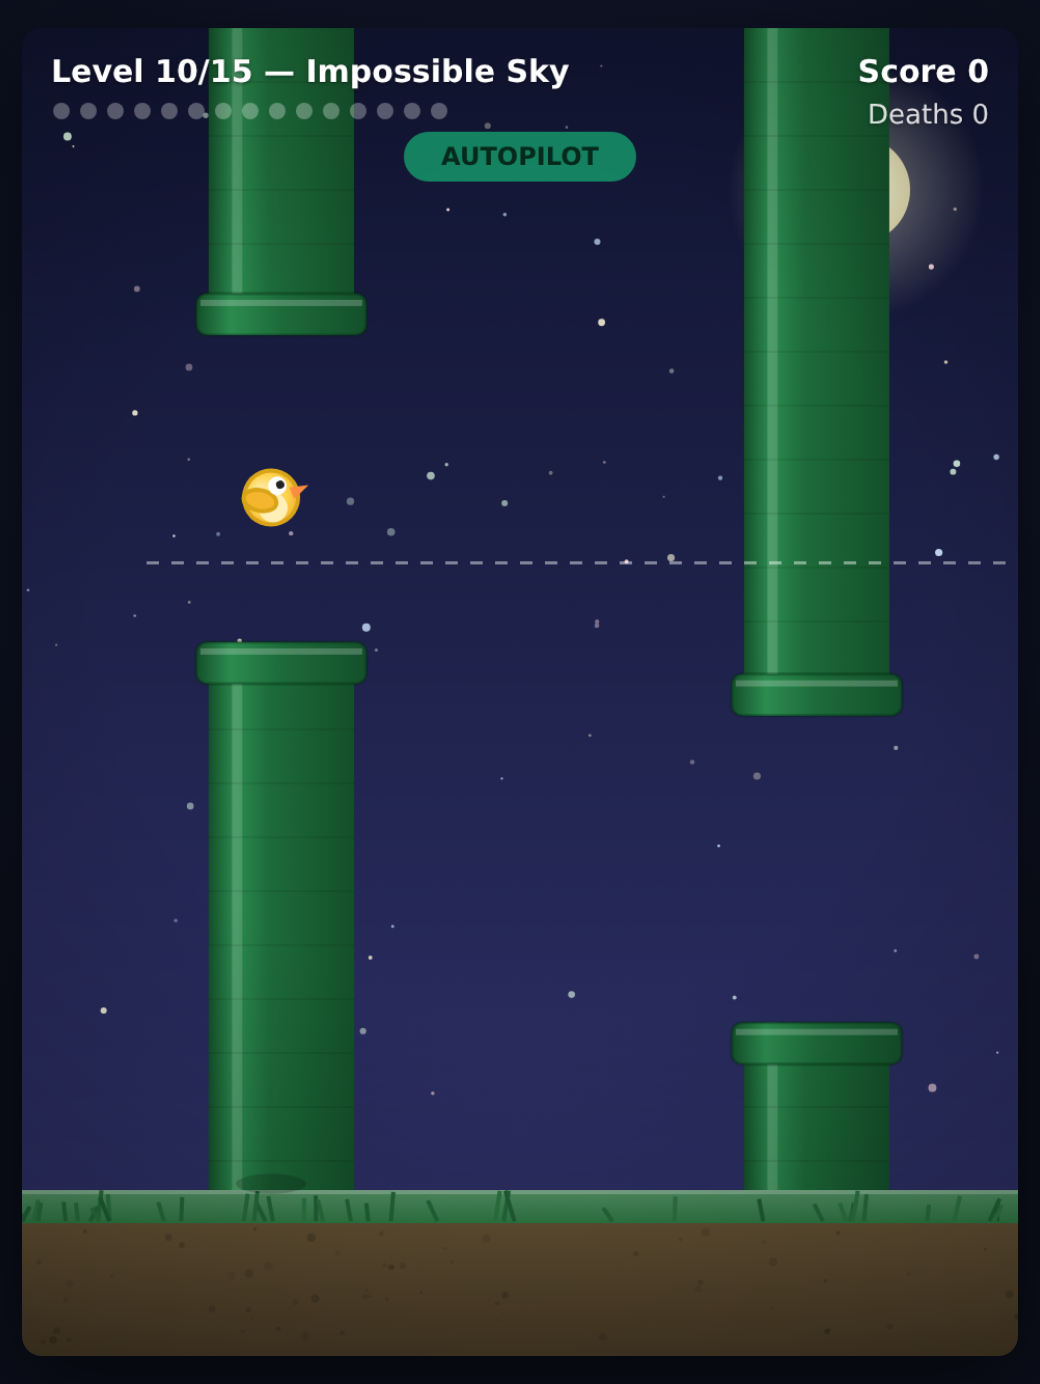
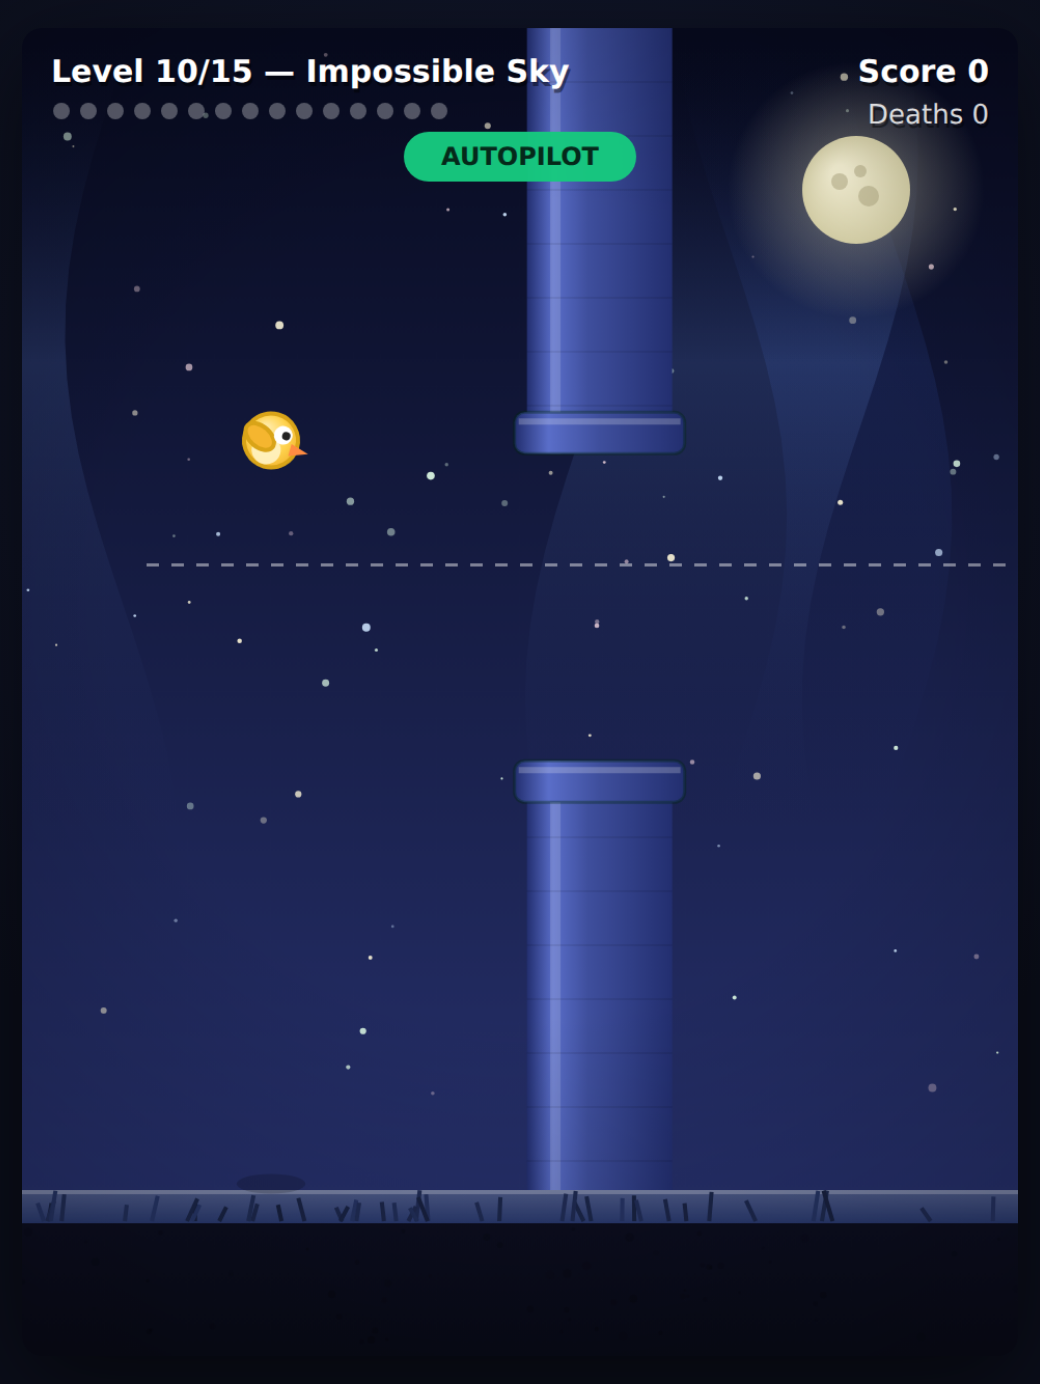
Give every level its own background
Levels 1-10 were visually near-identical: they set only a sky gradient
and fell through to the same default green pipes and ground, so the
first two thirds of the campaign all looked like the same place. Only
11-15 had real themes.

Every level now sets sky, pipe and ground explicitly, plus hills,
weather or aurora where it suits the scene, running from clear morning
through dawn, midday, desert, sunset and lagoon, into rain and then
night.

Every numeric field (seed, gap, speed, spacing, oscillation) is
untouched, so pipe layouts and the bot's route through them are
unchanged — this is purely cosmetic. Noted that property in a comment
on LEVELS since it's what makes re-theming safe.

Also fixes ground tufts, which blended toward a hardcoded dark green
and fought the new non-green grounds; they now darken the level's own
grass colour, so the desert gets dry straw and Frostbite icy twigs.

README's "levels 8-10 switch to a night palette, then 11-15 each get
their own theme" no longer described the campaign, so it's rewritten,
and the eight embedded level screenshots are regenerated at the same
1040x1384 as the originals.

Verified with tsc --noEmit, bun test (20/20), bun run sim (autopilot
clears all 15, 183 pipes), and a headless-browser pass over all 15
levels with no console/page errors.

diff --git a/src/levels.ts b/src/levels.ts
@@ -17,22 +17,28 @@ export interface LevelConfig {
   oscAmplitude: number;
   /** Frequency of the gap oscillation, in Hz. */
   oscFrequency: number;
-  /** Night-time palette (stars, darker pipes/ground). */
+  /** Night-time palette: swaps sun+clouds for stars+moon and enables aurora. */
   dark: boolean;
   /** Sky gradient, top to bottom. */
   sky: [string, string];
-  /** Optional pipe palette [light, dark]; defaults derive from `dark`. */
+  /** Pipe palette [light, dark]; defaults derive from `dark`. */
   pipe?: [string, string];
-  /** Optional ground palette [dirt, grass]; defaults derive from `dark`. */
+  /** Ground palette [dirt, grass]; defaults derive from `dark`. */
   ground?: [string, string];
-  /** Optional distant-hill silhouette colour for parallax depth. */
+  /** Distant-hill silhouette colour for parallax depth. */
   hills?: string;
-  /** Optional falling-particle weather effect. */
+  /** Falling-particle weather effect. */
   weather?: "snow" | "rain";
-  /** Optional aurora band colours for night skies, [inner, outer]. */
+  /** Aurora band colours [inner, outer]. Only drawn when `dark` is true. */
   aurora?: [string, string];
 }
 
+/**
+ * Difficulty ramps monotonically (gap shrinks, speed and oscillation grow)
+ * while each level gets its own scenery. The visual fields below are purely
+ * cosmetic — the engine only reads the numeric fields, so re-theming a level
+ * never changes its pipe layout or the bot's route through it.
+ */
 export const LEVELS: LevelConfig[] = [
   {
     id: 1,
@@ -45,8 +51,12 @@ export const LEVELS: LevelConfig[] = [
     maxCenterDelta: 120,
     oscAmplitude: 0,
     oscFrequency: 0,
+    // Clear morning: hazy blue, classic green pipes.
     dark: false,
-    sky: ["#8fd8ff", "#dff4ff"],
+    sky: ["#8fd8ff", "#e8f7ff"],
+    pipe: ["#5fd97a", "#1f7a3c"],
+    ground: ["#c9a05a", "#6ac95c"],
+    hills: "#bfe6c9",
   },
   {
     id: 2,
@@ -59,8 +69,12 @@ export const LEVELS: LevelConfig[] = [
     maxCenterDelta: 135,
     oscAmplitude: 0,
     oscFrequency: 0,
+    // Dawn: rose sky over warm distant ridges.
     dark: false,
-    sky: ["#7fcdf5", "#d6f0ff"],
+    sky: ["#f7a9b8", "#ffe3b0"],
+    pipe: ["#8ed49a", "#357a4d"],
+    ground: ["#c99a63", "#5fb567"],
+    hills: "#e0a08f",
   },
   {
     id: 3,
@@ -73,8 +87,12 @@ export const LEVELS: LevelConfig[] = [
     maxCenterDelta: 150,
     oscAmplitude: 0,
     oscFrequency: 0,
+    // Midday meadow: deep blue overhead, rolling green hills.
     dark: false,
-    sky: ["#6fc3ec", "#cdeaff"],
+    sky: ["#4fb3e8", "#c8ecff"],
+    pipe: ["#6ee08a", "#25864a"],
+    ground: ["#b5843f", "#57bf52"],
+    hills: "#7fc98f",
   },
   {
     id: 4,
@@ -87,8 +105,12 @@ export const LEVELS: LevelConfig[] = [
     maxCenterDelta: 160,
     oscAmplitude: 0,
     oscFrequency: 0,
+    // Desert canyon: sand haze, terracotta pipes, dune crest for "grass".
     dark: false,
-    sky: ["#5fb6e2", "#c2e2f8"],
+    sky: ["#f3c98b", "#fdeccb"],
+    pipe: ["#d98a5a", "#8a4526"],
+    ground: ["#c48d51", "#d9b271"],
+    hills: "#c98b63",
   },
   {
     id: 5,
@@ -101,8 +123,12 @@ export const LEVELS: LevelConfig[] = [
     maxCenterDelta: 165,
     oscAmplitude: 0,
     oscFrequency: 0,
+    // Golden hour: blazing sky, pipes reading as warm silhouettes.
     dark: false,
-    sky: ["#ffb45e", "#ffe2b0"],
+    sky: ["#ff9a4d", "#ffdca8"],
+    pipe: ["#c98a4a", "#5e3418"],
+    ground: ["#7a4a2a", "#c98a3f"],
+    hills: "#a35a35",
   },
   {
     id: 6,
@@ -115,8 +141,12 @@ export const LEVELS: LevelConfig[] = [
     maxCenterDelta: 140,
     oscAmplitude: 20,
     oscFrequency: 0.3,
+    // Tropical lagoon: turquoise water light, pale sand shore.
     dark: false,
-    sky: ["#f48c5c", "#ffc9a0"],
+    sky: ["#38c6d9", "#c8f5f0"],
+    pipe: ["#3fd9a8", "#127a5e"],
+    ground: ["#d9c48f", "#3fc9a0"],
+    hills: "#5fd9c4",
   },
   {
     id: 7,
@@ -129,8 +159,13 @@ export const LEVELS: LevelConfig[] = [
     maxCenterDelta: 145,
     oscAmplitude: 28,
     oscFrequency: 0.32,
+    // Overcast downpour: flat grey light, mossy wet pipes.
     dark: false,
-    sky: ["#b06a93", "#eda288"],
+    sky: ["#7a8399", "#c2cbd9"],
+    pipe: ["#6f8a7a", "#2c4a3c"],
+    ground: ["#5a5040", "#4a7a52"],
+    hills: "#8a94a8",
+    weather: "rain",
   },
   {
     id: 8,
@@ -143,8 +178,13 @@ export const LEVELS: LevelConfig[] = [
     maxCenterDelta: 145,
     oscAmplitude: 34,
     oscFrequency: 0.35,
+    // Night thunderhead: bruised indigo, cold steel pipes, driving rain.
     dark: true,
-    sky: ["#46498b", "#8a67a3"],
+    sky: ["#1e2340", "#4a3f6b"],
+    pipe: ["#4a7a8a", "#1a3a48"],
+    ground: ["#2a2438", "#3a5a4a"],
+    hills: "#2a2f4a",
+    weather: "rain",
   },
   {
     id: 9,
@@ -157,8 +197,12 @@ export const LEVELS: LevelConfig[] = [
     maxCenterDelta: 140,
     oscAmplitude: 40,
     oscFrequency: 0.38,
+    // Clear starry night: moonlit greens, low navy hills.
     dark: true,
-    sky: ["#222a52", "#46498b"],
+    sky: ["#101a3a", "#3a4a80"],
+    pipe: ["#3a8a6a", "#14503a"],
+    ground: ["#2a2a3a", "#2f6a48"],
+    hills: "#1a2447",
   },
   {
     id: 10,
@@ -171,8 +215,12 @@ export const LEVELS: LevelConfig[] = [
     maxCenterDelta: 130,
     oscAmplitude: 42,
     oscFrequency: 0.38,
+    // High altitude: near-black zenith, indigo pipes, faint blue airglow.
     dark: true,
-    sky: ["#101430", "#2c2f63"],
+    sky: ["#070a1e", "#26306b"],
+    pipe: ["#5a6ec9", "#232f70"],
+    ground: ["#0e1024", "#2a3a70"],
+    aurora: ["#6a9aff", "#2a4aa8"],
   },
   {
     id: 11,
@@ -185,6 +233,7 @@ export const LEVELS: LevelConfig[] = [
     maxCenterDelta: 128,
     oscAmplitude: 38,
     oscFrequency: 0.36,
+    // Arctic night: green-blue curtains over ice, drifting snow.
     dark: true,
     sky: ["#05203a", "#0a3c4a"],
     pipe: ["#52d0c2", "#1d7a72"],
@@ -203,11 +252,12 @@ export const LEVELS: LevelConfig[] = [
     maxCenterDelta: 132,
     oscAmplitude: 40,
     oscFrequency: 0.38,
+    // Blood-red horizon fading to near-black overhead.
     dark: true,
-    sky: ["#2a0a1e", "#7a1f33"],
+    sky: ["#2a0a1e", "#8a2338"],
     pipe: ["#c75b6a", "#7a2433"],
     ground: ["#321016", "#7a2f38"],
-    hills: "#3d1322",
+    hills: "#4a1526",
   },
   {
     id: 13,
@@ -220,11 +270,12 @@ export const LEVELS: LevelConfig[] = [
     maxCenterDelta: 134,
     oscAmplitude: 42,
     oscFrequency: 0.40,
+    // Whiteout blizzard: the one bright level this late in the run.
     dark: false,
-    sky: ["#bfe6ff", "#eaf7ff"],
-    pipe: ["#bfe9ff", "#5a93c4"],
-    ground: ["#d6ecf5", "#9fd0e6"],
-    hills: "#c4dcea",
+    sky: ["#bfe6ff", "#f2fbff"],
+    pipe: ["#cff0ff", "#5a93c4"],
+    ground: ["#cfe4ef", "#a8d8ea"],
+    hills: "#cfe2ee",
     weather: "snow",
   },
   {
@@ -238,11 +289,12 @@ export const LEVELS: LevelConfig[] = [
     maxCenterDelta: 136,
     oscAmplitude: 44,
     oscFrequency: 0.41,
+    // Volcanic: charred rock pipes over a lava-lit crust.
     dark: true,
-    sky: ["#1a0d08", "#5c2410"],
-    pipe: ["#4a4038", "#241d18"],
-    ground: ["#2a1108", "#a8431a"],
-    hills: "#3a1b0e",
+    sky: ["#1a0d08", "#6b2a10"],
+    pipe: ["#5a4a3a", "#241d18"],
+    ground: ["#2a1108", "#b8481a"],
+    hills: "#3f1c0e",
   },
   {
     id: 15,
@@ -255,10 +307,11 @@ export const LEVELS: LevelConfig[] = [
     maxCenterDelta: 138,
     oscAmplitude: 46,
     oscFrequency: 0.43,
+    // Deep space: violet nebula bands, no horizon to speak of.
     dark: true,
-    sky: ["#040406", "#150a26"],
-    pipe: ["#7a5cc9", "#39236e"],
-    ground: ["#0a0612", "#3a2a5e"],
-    aurora: ["#9a6cff", "#4a2a9a"],
+    sky: ["#030308", "#170a2c"],
+    pipe: ["#8a68d9", "#39236e"],
+    ground: ["#0a0612", "#3f2d66"],
+    aurora: ["#a06cff", "#4a2a9a"],
   },
 ];

diff --git a/src/render.ts b/src/render.ts
@@ -97,11 +97,13 @@ function ensureDeco(): void {
   }));
   const lvl = game.level;
   const [dirt, grass] = lvl.ground ?? (lvl.dark ? ["#6e5a3a", "#2f7a44"] : ["#caa157", "#67c357"]);
+  // Tufts are darkened shades of the level's own grass colour rather than a
+  // fixed green, so sand/snow/lava grounds get tufts in their own hue.
   tufts = Array.from({ length: 46 }, () => ({
     x: rng() * GRASS_SPAN,
     h: 6 + rng() * 9,
     lean: (rng() * 2 - 1) * 0.5,
-    color: mix(grass, "#0a3a1e", 0.45 - rng() * 0.45),
+    color: mix(grass, "#000000", 0.45 - rng() * 0.4),
   }));
   specks = Array.from({ length: 60 }, () => ({
     x: rng() * WIDTH,

diff --git a/README.md b/README.md
@@ -43,10 +43,12 @@ bun run dev   # serve with hot reload → http://localhost:3000
 ## The 15 levels
 
 Difficulty ramps via gap size, scroll speed, pipe spacing and — from level 6 — vertically
-oscillating gaps. Levels 8–10 switch to a night palette, then 11–15 each get their own
-theme: Aurora (snow + aurora curtains), Crimson Dusk, Frostbite (icy palette + snow),
-Ember Fields (volcanic) and The Void. Per-level pipe/ground colours, parallax hills,
-weather and aurora are optional fields on each level. Layouts are seeded and deterministic
+oscillating gaps. Every level has its own scenery, running roughly from morning through
+dawn, midday, desert, sunset and lagoon, into rain, then night: Storm Front, Night Run and
+Impossible Sky, then Aurora (snow + aurora curtains), Crimson Dusk, Frostbite (whiteout
+blizzard), Ember Fields (volcanic) and The Void. Sky gradient, pipe and ground colours,
+parallax hills, weather and aurora are all per-level fields — they're purely cosmetic, so
+re-theming a level never changes its layout. Layouts are seeded and deterministic
 (`src/levels.ts`).
 
 ## The bot
